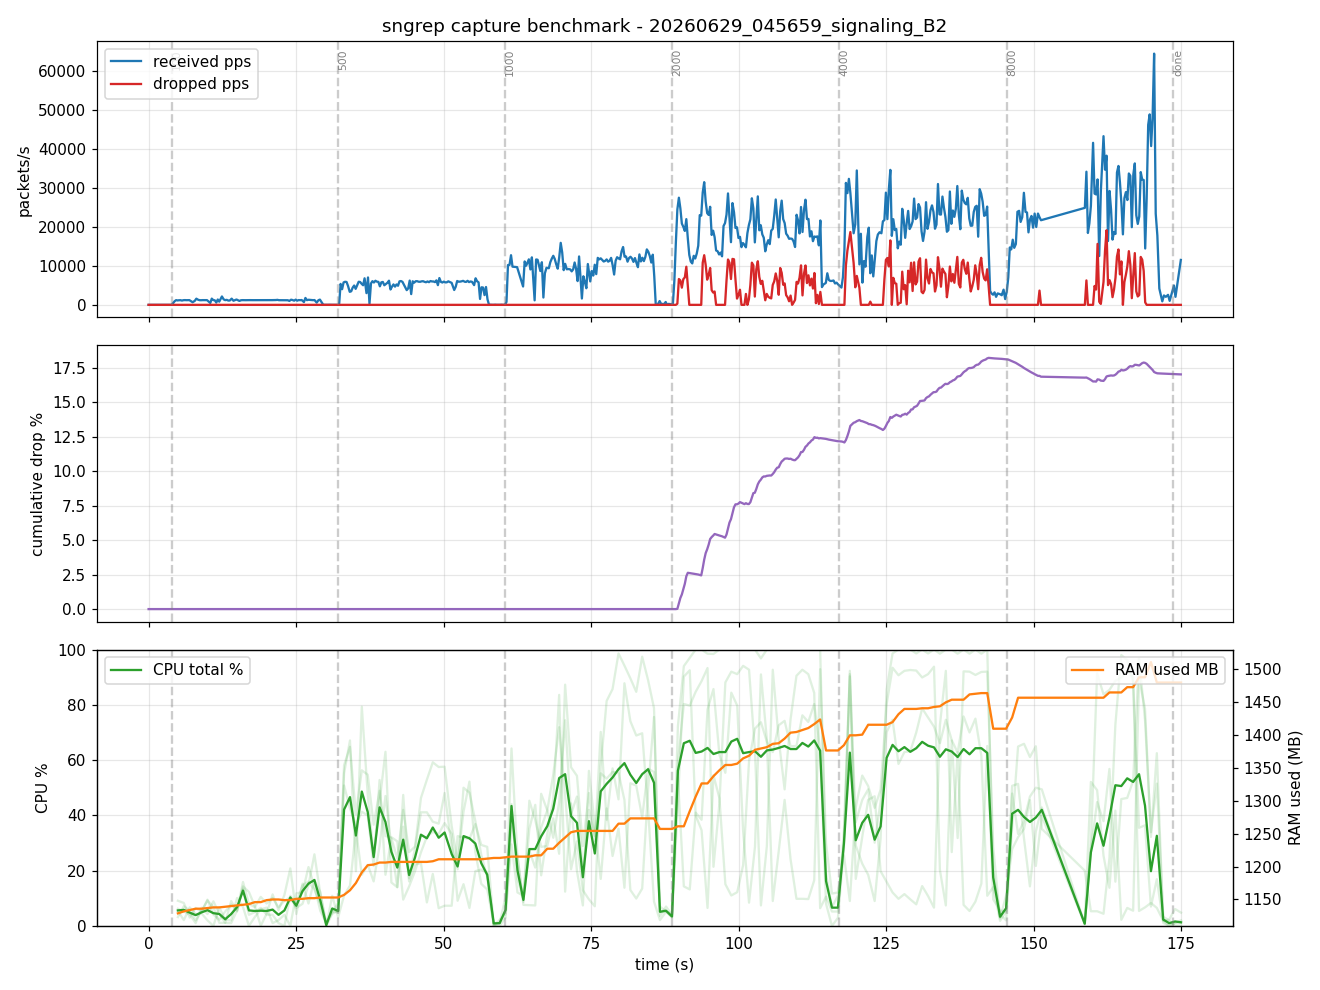
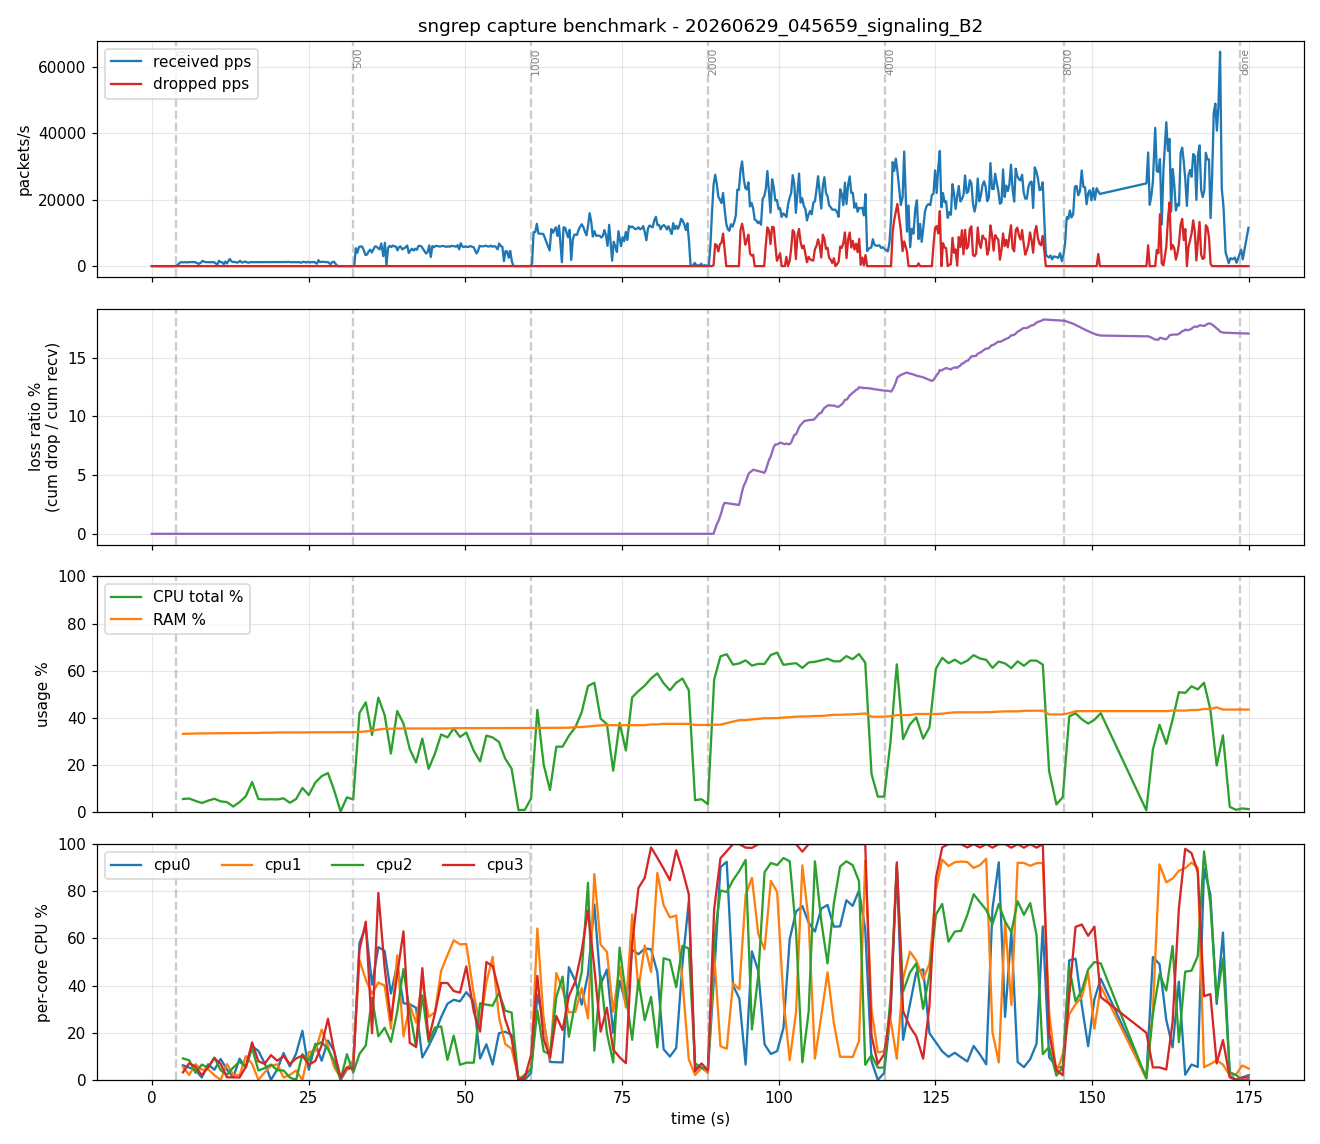
plot: 코어별 CPU 별도 패널 분리, RAM %로, drop 비율 라벨 명확화 + README 5장 설명 정리

diff --git a/bench/plot.py b/bench/plot.py
@@ -3,10 +3,9 @@
 
     python3 bench/plot.py bench/results/<run_dir>
 
-Writes <run_dir>/report.png. The CPU panel draws the total CPU plus faint
-per-core lines: if one core sits at 100% while the total stays low, that is the
-single-thread sngrep limit (not resource starvation); if every core is pegged,
-CPU contention is in play.
+Writes <run_dir>/report.png. A separate panel draws per-core CPU: if one core
+sits at 100% while the total stays low, that is the single-thread sngrep limit
+(not resource starvation); if every core is pegged, CPU contention is in play.
 """
 import sys
 import csv
@@ -49,8 +48,8 @@ def main():
     dps = [float(r['d_drop']) / interval for r in stats]
     dpc = [float(r['drop_pct']) for r in stats]
 
-    npanel = 3 if sysd else 2
-    fig, ax = plt.subplots(npanel, 1, figsize=(12, 3 * npanel), sharex=True)
+    npanel = 4 if sysd else 2
+    fig, ax = plt.subplots(npanel, 1, figsize=(12, 2.6 * npanel), sharex=True)
 
     ax[0].plot(t, pps, label='received pps', color='tab:blue')
     ax[0].plot(t, dps, label='dropped pps', color='tab:red')
@@ -60,26 +59,35 @@ def main():
     ax[0].set_title('sngrep capture benchmark - ' + os.path.basename(os.path.normpath(d)))
 
     ax[1].plot(t, dpc, color='tab:purple')
-    ax[1].set_ylabel('cumulative drop %')
+    ax[1].set_ylabel('loss ratio %\n(cum drop / cum recv)')
     ax[1].grid(True, alpha=.3)
 
     if sysd:
         st = [rel(r['ts_unix_ms']) for r in sysd]
+
+        def mem_pct(r):
+            used = float(r['mem_used_mb'])
+            tot = used + float(r['mem_avail_mb'])
+            return 100.0 * used / tot if tot else 0.0
+
+        # total CPU and RAM, both as %
         ax[2].plot(st, [float(r['cpu_all_pct']) for r in sysd],
                    label='CPU total %', color='tab:green')
-        cores = [k for k in sysd[0]
-                 if k.startswith('cpu') and k.endswith('_pct') and k != 'cpu_all_pct']
-        for c in cores:
-            ax[2].plot(st, [float(r[c]) for r in sysd], color='tab:green', alpha=.15)
-        ax[2].set_ylabel('CPU %')
+        ax[2].plot(st, [mem_pct(r) for r in sysd], label='RAM %', color='tab:orange')
+        ax[2].set_ylabel('usage %')
         ax[2].set_ylim(0, 100)
         ax[2].grid(True, alpha=.3)
         ax[2].legend(loc='upper left')
-        axb = ax[2].twinx()
-        axb.plot(st, [float(r['mem_used_mb']) for r in sysd],
-                 label='RAM used MB', color='tab:orange')
-        axb.set_ylabel('RAM used (MB)')
-        axb.legend(loc='upper right')
+
+        # per-core CPU on its own panel so a single pegged core is visible
+        cores = [k for k in sysd[0]
+                 if k.startswith('cpu') and k.endswith('_pct') and k != 'cpu_all_pct']
+        for c in cores:
+            ax[3].plot(st, [float(r[c]) for r in sysd], label=c.replace('_pct', ''))
+        ax[3].set_ylabel('per-core CPU %')
+        ax[3].set_ylim(0, 100)
+        ax[3].grid(True, alpha=.3)
+        ax[3].legend(loc='upper left', ncol=len(cores))
 
     def norm_ms(ts):
         # tolerate stage timestamps written in ns (older runs) vs ms (stats)

diff --git a/README.md b/README.md
@@ -94,11 +94,12 @@ sudo BUFFER_MB=16  ./bench/run_bench.sh
 
 ## 5. 결과
 
-signaling 측정. report.png는 received/dropped pps, 누적 드롭 비율, CPU·RAM의 3단 그래프다.
+초당 통화 수만 100에서 8000 cps까지 단계적으로 올린 signaling 측정이다. 부하가 오를 때
+드롭이 어느 지점에서 터지는지, 그 시점에 CPU와 메모리가 남는지를 같은 시간축에서 본다.
 
 ![signaling 측정](bench/results/20260629_045659_signaling_B2/report.png)
 
-profile.png는 캡처 스레드의 단계별 시간 구성이다.
+다음은 캡처 스레드가 한 패킷을 처리하며 각 단계에 쓴 시간 구성이다. 어디가 병목인지 본다.
 
 ![캡처 스레드 시간 구성](bench/results/20260629_073854_signaling_B2/profile.png)
 